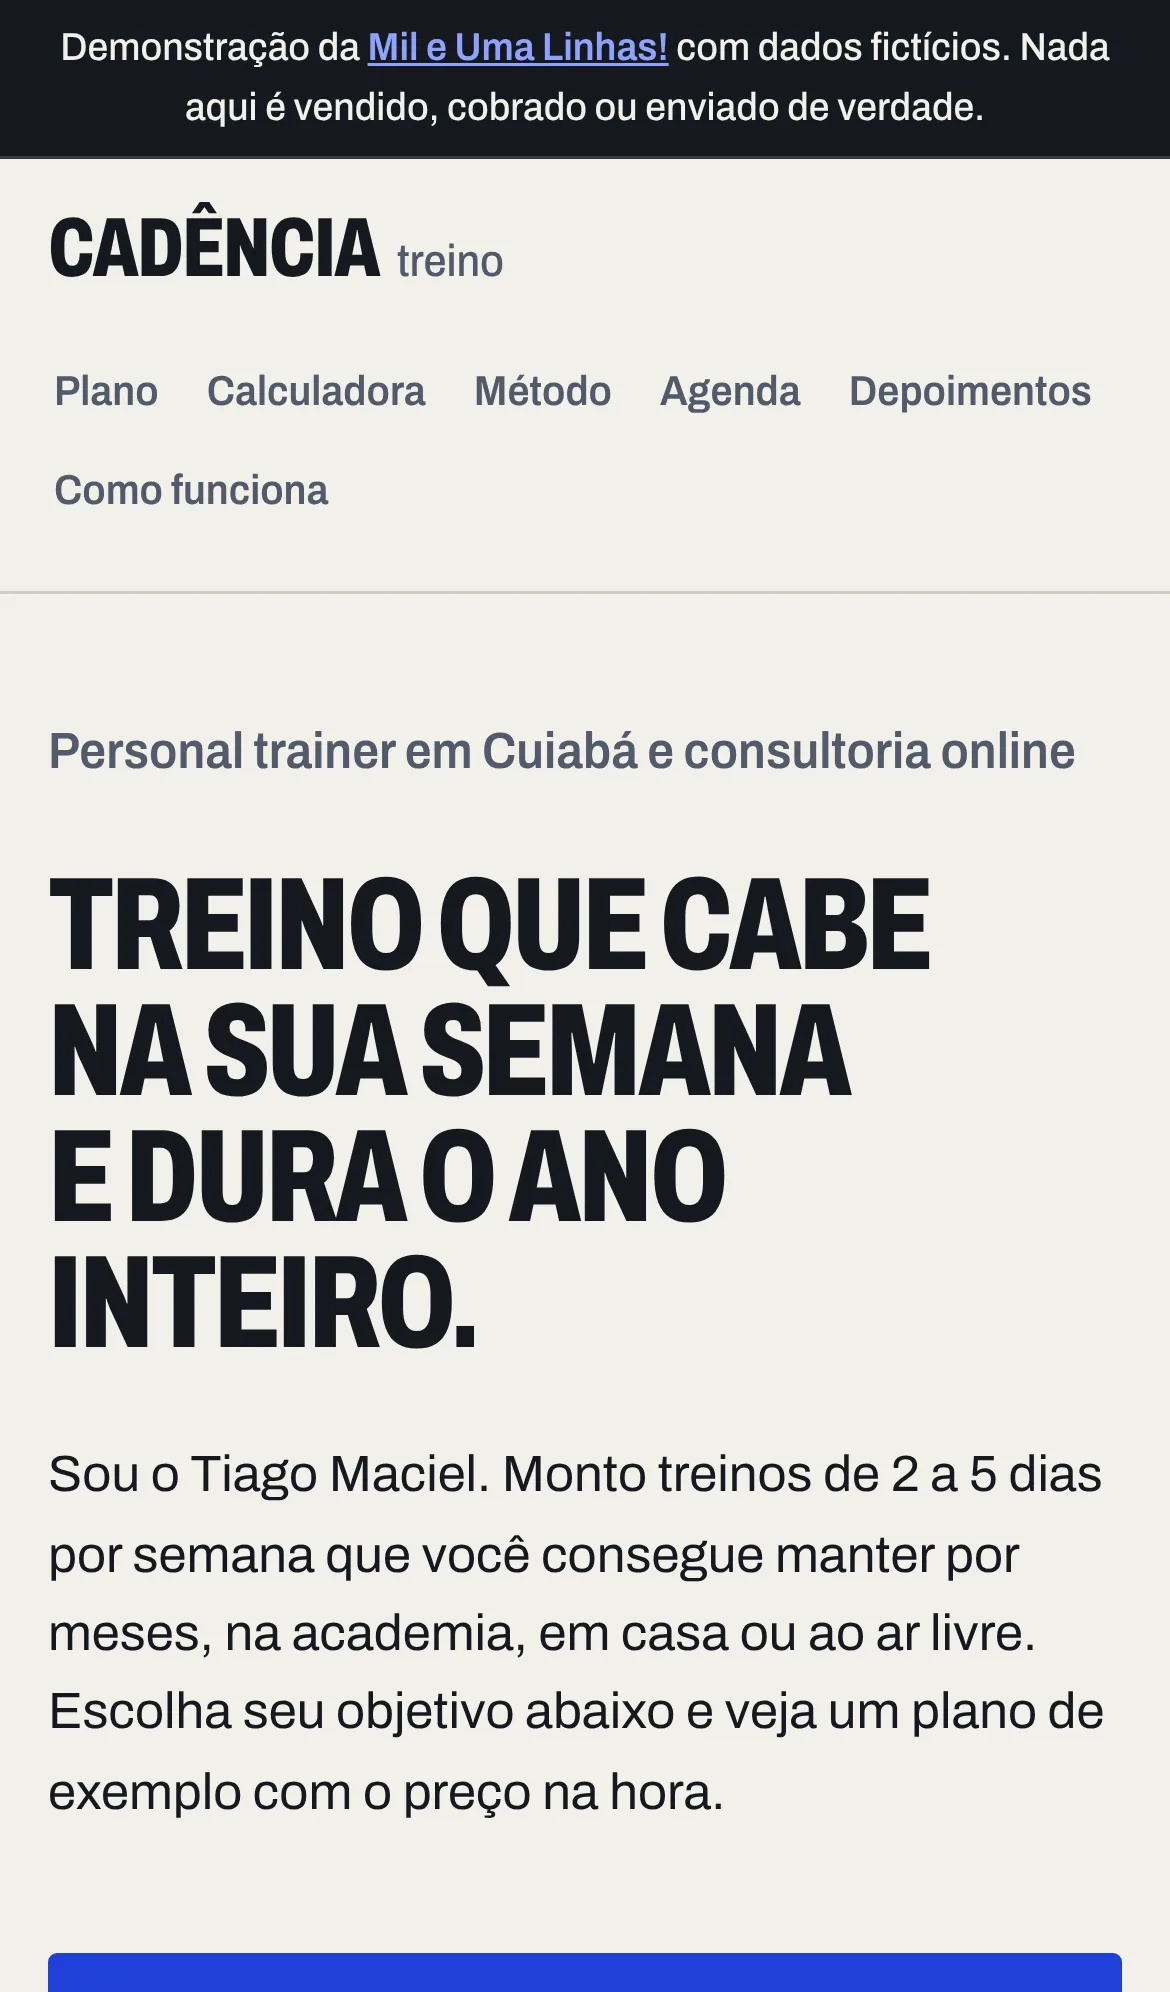
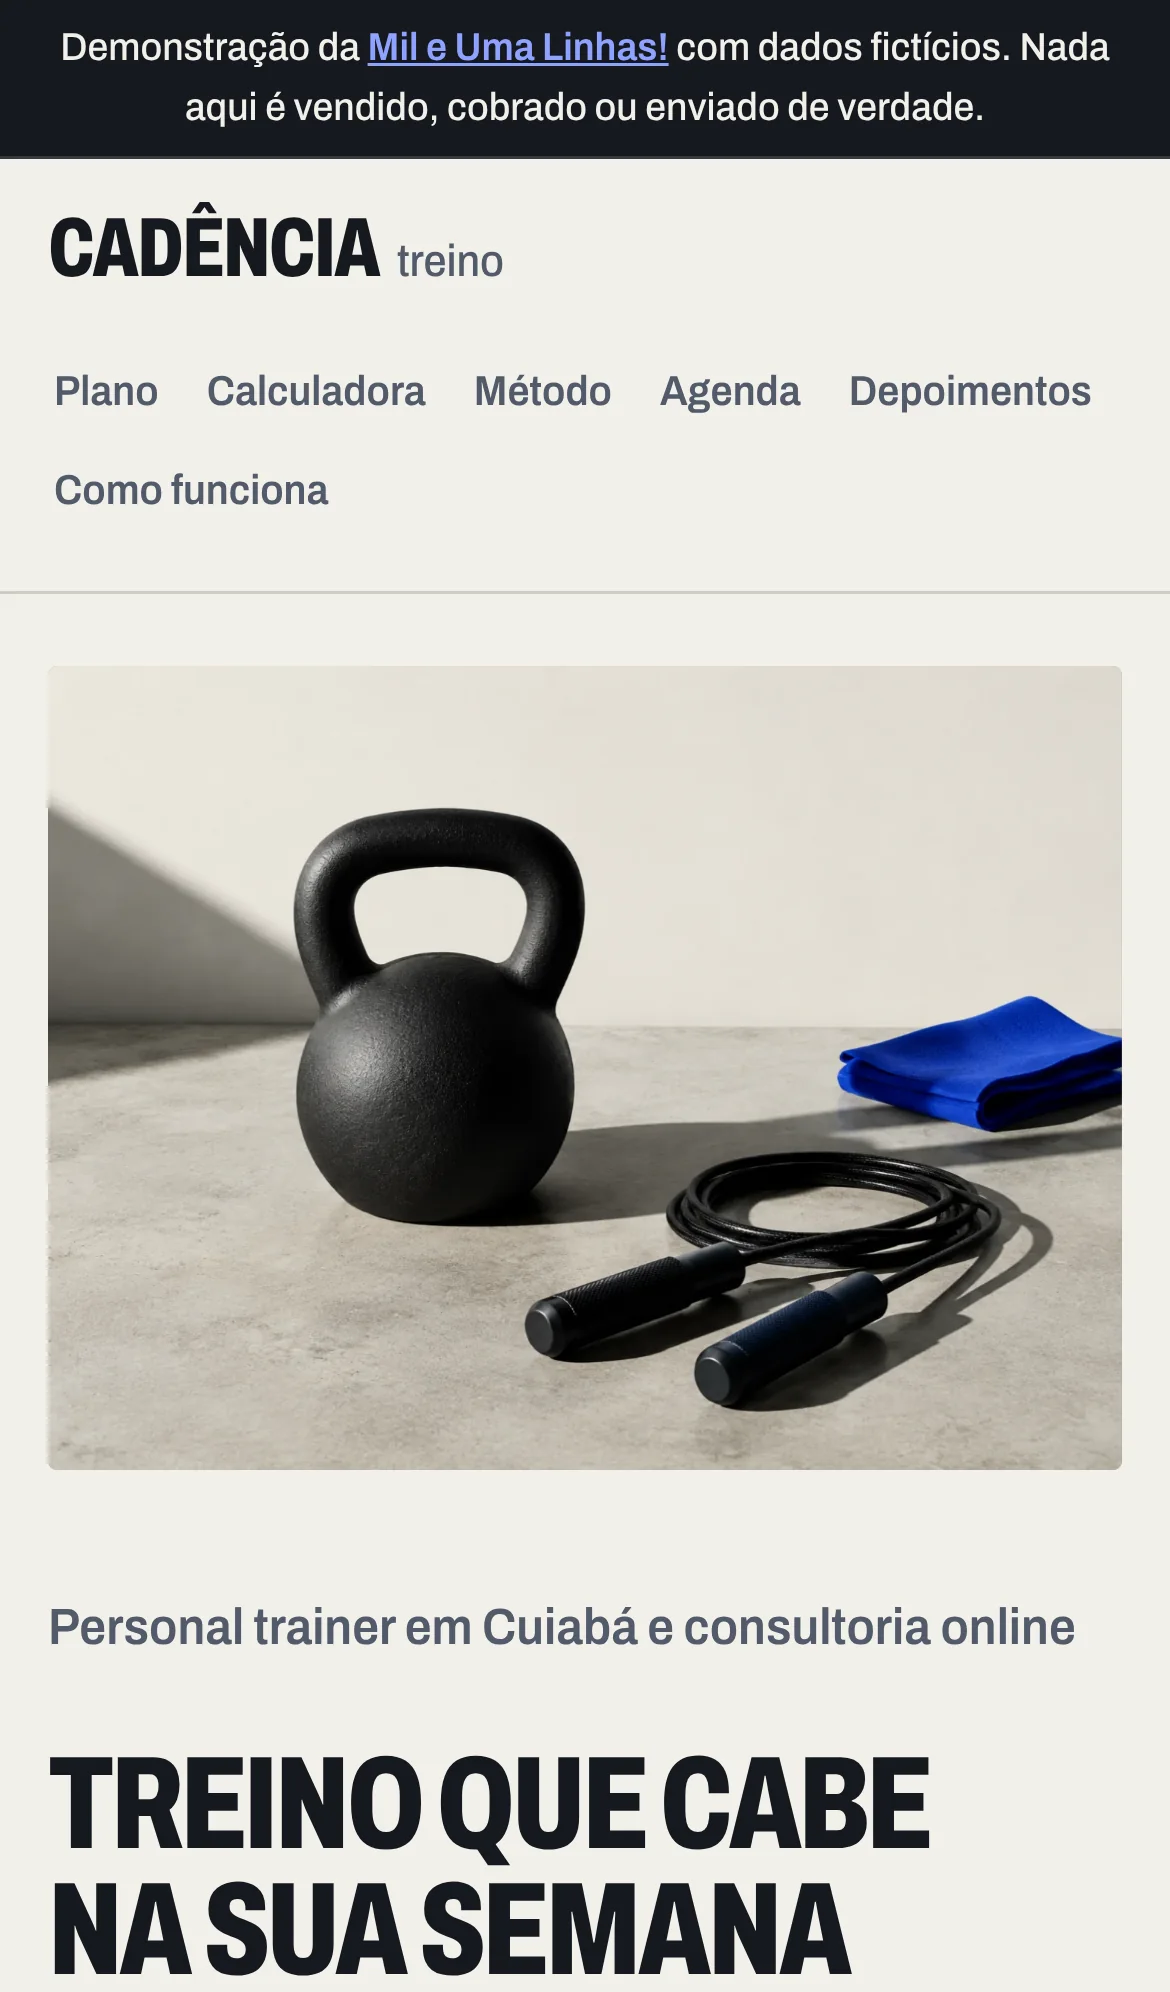
Troca o hero desenhado por foto gerada por IA
Substitui o gráfico de sete barras em SVG do hero por uma foto de uma
kettlebell, uma corda de pular e uma toalha azul-cobalto sobre concreto
(img/hero.webp, 1440x1080, gerada por IA no Canva e ilustrativa).

- index.html: img.hero-foto com width/height, alt descritivo e
  fetchpriority=high dentro da figure 4:3; removidos o SVG e a legenda
  da semana; CSP mantida.
- css/estilo.css: figure com aspect-ratio 4/3, object-fit cover, cantos
  de 3 px e cor média da foto como fundo enquanto carrega; no celular a
  foto abre a página e o texto vem logo abaixo; removidos os estilos e a
  animação das barras do hero; a abertura segue com o título subindo
  linha por linha e a foto ganha um fade (desligado com reduced-motion).
- tests/site.cjs: confere que a foto carregou, tem alt, 4:3, cabe na
  tela e que nenhum texto do hero fica por cima dela; a porta passa a
  aceitar a variável PORTA.
- docs/identidade.md, docs/vistoria.md e README.md: descrevem a foto, o
  aviso de que é gerada por IA e o prompt resumido.
- docs/capa-desktop.webp e docs/capa-celular.webp refeitas.

Claude-Session: https://claude.ai/code/session_015DVsuVad392kn1wvAjF541

diff --git a/css/estilo.css b/css/estilo.css
@@ -133,34 +133,23 @@ h3 { font-weight: 700; font-stretch: 85%; font-size: 1.375rem; line-height: 1.2;
 .titulo-grande span { display: block; }
 .acoes { display: flex; flex-wrap: wrap; gap: var(--e2); }
 
-.abertura-figura { max-width: 460px; justify-self: end; width: 100%; }
-.semana-svg { width: 100%; height: auto; }
-.barra { fill: var(--cobalto); transform-box: fill-box; transform-origin: bottom; }
-.barra-baixa { fill: var(--linha); }
-.semana-base { stroke: var(--ferro); stroke-width: 2; }
-.semana-rotulos text {
-  font-family: var(--fonte); font-weight: 700; font-stretch: 80%;
-  font-size: 18px; fill: var(--aco); text-anchor: middle;
+.abertura-figura {
+  max-width: 520px; justify-self: end; width: 100%;
+  aspect-ratio: 4 / 3; border-radius: var(--raio); overflow: hidden;
+  background: #A3A099; /* média da foto: aparece enquanto ela carrega */
 }
-.legenda { color: var(--aco); font-size: 0.875rem; font-weight: 500; font-stretch: 95%; margin-top: var(--e2); }
+.hero-foto { display: block; width: 100%; height: 100%; object-fit: cover; }
 
 /* Animação de abertura: um só momento */
 @media (prefers-reduced-motion: no-preference) {
   .linha-anim { animation: subir 0.7s cubic-bezier(.2,.7,.2,1) both; }
   .linha-anim:nth-child(2) { animation-delay: 0.08s; }
   .linha-anim:nth-child(3) { animation-delay: 0.16s; }
-  .barra { animation: crescer 0.7s cubic-bezier(.2,.7,.2,1) both; }
-  .barra:nth-child(1) { animation-delay: 0.10s; }
-  .barra:nth-child(2) { animation-delay: 0.16s; }
-  .barra:nth-child(3) { animation-delay: 0.22s; }
-  .barra:nth-child(4) { animation-delay: 0.28s; }
-  .barra:nth-child(5) { animation-delay: 0.34s; }
-  .barra:nth-child(6) { animation-delay: 0.40s; }
-  .barra:nth-child(7) { animation-delay: 0.46s; }
+  .hero-foto { animation: foto-entra 0.9s ease-out both; }
   .opcao span, .botao, .menu a, .horario, .mini-dia { transition: background-color .15s, color .15s, border-color .15s; }
 }
 @keyframes subir { from { opacity: 0; transform: translateY(0.4em); } to { opacity: 1; transform: none; } }
-@keyframes crescer { from { transform: scaleY(0); } to { transform: scaleY(1); } }
+@keyframes foto-entra { from { opacity: 0; } to { opacity: 1; } }
 
 /* Seções */
 .secao { padding-block: var(--e6); border-top: 1px solid var(--linha); scroll-margin-top: 48px; }
@@ -366,7 +355,7 @@ code { font-family: ui-monospace, "SF Mono", Menlo, Consolas, monospace; font-si
 /* Celular e telas estreitas */
 @media (max-width: 900px) {
   .abertura-grade { grid-template-columns: 1fr; }
-  .abertura-figura { justify-self: start; max-width: 360px; }
+  .abertura-figura { justify-self: start; max-width: 560px; order: -1; } /* no celular a foto abre a página, o texto vem logo abaixo */
   .duas-colunas { grid-template-columns: 1fr; gap: var(--e4); }
   .etapas { grid-template-columns: 1fr; }
   .depoimento { grid-template-columns: 1fr; gap: var(--e1); }
@@ -382,7 +371,7 @@ code { font-family: ui-monospace, "SF Mono", Menlo, Consolas, monospace; font-si
 }
 @media (max-width: 600px) {
   :root { --calha: 16px; }
-  .abertura { padding-block: var(--e4); }
+  .abertura { padding-block: var(--e3) var(--e4); }
   .topo-conteudo { flex-direction: column; align-items: flex-start; }
   .menu { gap: 2px 12px; }
   .menu a { font-size: 0.875rem; }

diff --git a/index.html b/index.html
@@ -56,30 +56,7 @@
         </div>
       </div>
       <figure class="abertura-figura">
-        <svg class="semana-svg" viewBox="0 0 420 300" role="img" aria-labelledby="semana-titulo semana-desc">
-          <title id="semana-titulo">Ritmo de uma semana de treino</title>
-          <desc id="semana-desc">Sete barras, uma por dia da semana. Segunda, quarta e sexta são altas, representando dias de treino; os outros dias são baixos, representando descanso.</desc>
-          <g class="barras">
-            <rect class="barra" x="10"  y="60"  width="44" height="200" rx="2" data-h="200"></rect>
-            <rect class="barra barra-baixa" x="68"  y="220" width="44" height="40" rx="2" data-h="40"></rect>
-            <rect class="barra" x="126" y="30"  width="44" height="230" rx="2" data-h="230"></rect>
-            <rect class="barra barra-baixa" x="184" y="230" width="44" height="30" rx="2" data-h="30"></rect>
-            <rect class="barra" x="242" y="90"  width="44" height="170" rx="2" data-h="170"></rect>
-            <rect class="barra barra-baixa" x="300" y="240" width="44" height="20" rx="2" data-h="20"></rect>
-            <rect class="barra barra-baixa" x="358" y="246" width="44" height="14" rx="2" data-h="14"></rect>
-          </g>
-          <line class="semana-base" x1="10" y1="261" x2="402" y2="261"></line>
-          <g class="semana-rotulos" aria-hidden="true">
-            <text x="32" y="290">S</text>
-            <text x="90" y="290">T</text>
-            <text x="148" y="290">Q</text>
-            <text x="206" y="290">Q</text>
-            <text x="264" y="290">S</text>
-            <text x="322" y="290">S</text>
-            <text x="380" y="290">D</text>
-          </g>
-        </svg>
-        <figcaption class="legenda">Uma semana de três treinos. O resto é descanso, e descanso também é parte do plano.</figcaption>
+        <img class="hero-foto" src="img/hero.webp" width="1440" height="1080" alt="Uma kettlebell preta de ferro sobre um piso de concreto cinza, ao lado de uma corda de pular preta com cabos escuros e uma toalha dobrada em azul-cobalto, diante de uma parede clara cortada por uma sombra diagonal." fetchpriority="high">
       </figure>
     </div>
   </section>

diff --git a/docs/identidade.md b/docs/identidade.md
@@ -8,7 +8,7 @@ Estudo curto feito antes do código. Tudo aqui é fictício: a empresa, o profis
 
 Frase de posicionamento: **"Treino que cabe na sua semana e dura o ano inteiro."**
 
-A ideia central é constância, não intensidade. O personal fictício (Tiago Maciel) vende ritmo: poucos dias por semana, bem feitos, repetidos por meses. Por isso a marca se chama Cadência e a imagem forte é a semana vista como um ritmo de barras.
+A ideia central é constância, não intensidade. O personal fictício (Tiago Maciel) vende ritmo: poucos dias por semana, bem feitos, repetidos por meses. Por isso a marca se chama Cadência e a imagem forte é uma foto limpa de equipamento de treino; o ritmo da semana aparece em barras no resultado do plano.
 
 ## Paleta
 
@@ -19,7 +19,7 @@ A ideia central é constância, não intensidade. O personal fictício (Tiago Ma
 | Ferro | `#15181F` | Texto principal no claro e fundo da faixa escura (método, agenda). |
 | Aço | `#525A6B` | Texto secundário e legendas. Contraste 6,1:1 sobre Giz. |
 | Linha | `#CFCCC2` | Bordas de 1px e divisórias. Nunca usada como texto. |
-| Cobalto | `#2140D9` | O único destaque. Barras do hero, botão principal, dia selecionado. Texto branco sobre ele tem 7,5:1. |
+| Cobalto | `#2140D9` | O único destaque. Botão principal, dia selecionado e a semana em barras do resultado do plano; a toalha da foto do hero ecoa a cor. Texto branco sobre ele tem 7,5:1. |
 | Cobalto claro | `#8FA2FF` | Versão do destaque para texto pequeno sobre Ferro (7,4:1), porque o Cobalto puro some no fundo escuro. |
 
 Regra de uso: o Cobalto aparece em um lugar por tela, no máximo dois quando um deles é o botão principal. Nada de gradiente. Nenhum cartão com sombra: separação por linhas de 1px e por alternância Giz / Ferro.
@@ -59,12 +59,22 @@ Regra de peso: só 400, 600, 700 e 800. Nada de itálico.
 
 ## Imagem forte
 
-No hero, à direita do título, um gráfico em SVG desenhado à mão: sete barras verticais em Cobalto, uma por dia da semana, com alturas que formam o ritmo de uma semana de treino (dias de treino altos, dias de descanso baixos). Abaixo de cada barra, a inicial do dia. É o símbolo da marca e reaparece em miniatura no resultado do montador de plano, agora respondendo à escolha do visitante.
+O hero é uma **foto gerada por IA (Canva)**, ilustrativa: uma kettlebell preta de ferro sobre um piso de concreto cinza, uma corda de pular preta e uma toalha dobrada em azul-cobalto, diante de uma parede clara cortada por uma sombra diagonal. A luz dura e a sombra geométrica combinam com a Archivo condensada do título, e o azul da toalha é o único ponto de cor, o mesmo Cobalto da marca. Não há pessoas.
+
+O contêiner tem proporção fixa de 4:3, cantos de 3 px (o mesmo raio dos botões) e sem sombra nem borda. Enquanto a foto carrega, ele mostra a cor média dela. O gráfico de sete barras que ficava no hero foi retirado; a miniatura da semana continua no resultado do montador de plano, respondendo à escolha do visitante.
 
 Sem fotos de banco de imagem, sem fotos de pessoas, sem ícones genéricos.
 
+### Foto do hero
+
+- **Arquivo**: `img/hero.webp`, 1440 x 1080 px, proporção 4:3.
+- **Origem**: gerada por IA no Canva. O README e este estudo avisam que é ilustrativa.
+- **Prompt resumido**: "Natureza-morta de treino em estúdio: uma kettlebell preta fosca de ferro fundido, uma corda de pular preta com cabos escuros e uma toalha dobrada em azul-cobalto vivo, sobre piso de concreto cinza. Parede em tom de giz ao fundo, luz dura de janela com uma sombra diagonal nítida. Estilo editorial de site premium, sem texto, sem pessoas, proporção 4:3."
+- **Texto alternativo**: descreve a kettlebell, a corda de pular, a toalha azul e a parede com a sombra.
+- **Texto do hero**: fica ao lado da foto no computador e abaixo dela no celular, nunca por cima. O contraste do texto é o da página (Ferro sobre Giz) e não depende da foto.
+
 ## Movimento
 
-Um só momento orquestrado: ao abrir a página, as barras do hero sobem em sequência (700ms, atraso de 60ms entre elas) e o título entra de baixo para cima. Depois disso, só respostas a ações do visitante: o plano aparece, o horário selecionado muda de cor, o resultado da calculadora é atualizado.
+Um só momento orquestrado: ao abrir a página, o título entra de baixo para cima, linha por linha (700ms), e a foto do hero aparece com um fade de 900ms. Depois disso, só respostas a ações do visitante: o plano aparece, o horário selecionado muda de cor, o resultado da calculadora é atualizado.
 
-Com `prefers-reduced-motion: reduce`, nada se move: as barras já nascem na altura final e as transições são desligadas.
+Com `prefers-reduced-motion: reduce`, nada se move: o título e a foto já aparecem prontos e as transições são desligadas.

diff --git a/README.md b/README.md
@@ -35,7 +35,7 @@ O estudo completo está em [`docs/identidade.md`](docs/identidade.md).
 - **Nome e ideia**: Cadência Treino. A marca vende constância, não intensidade: "Treino que cabe na sua semana e dura o ano inteiro".
 - **Paleta**: Giz `#F2F0EA` (fundo), Ferro `#15181F` (texto e faixas escuras), Aço `#525A6B` (texto secundário), Linha `#CFCCC2` (bordas) e um único destaque, Cobalto `#2140D9`, que aparece em um lugar por tela. Fugi de propósito do preto com laranja e do neon de academia; o resultado lembra uma prancheta de treino.
 - **Fonte**: só uma, a Archivo variável (licença OFL), servida do próprio site em `fonts/`. Nos títulos ela fica condensada e pesada, como número de camisa; no texto fica normal. Nenhuma fonte vem de fora.
-- **Imagem forte**: um gráfico em SVG com as sete barras da semana, que sobe em sequência quando a página abre. Sem fotos de banco de imagem e sem fotos de pessoas. Ele volta em miniatura no resultado do plano, respondendo à escolha de dias.
+- **Imagem forte**: uma foto de uma kettlebell, uma corda de pular e uma toalha azul-cobalto sobre concreto (`img/hero.webp`). **A foto foi gerada por IA no Canva e é só ilustrativa**: o espaço e os objetos não existem. Sem fotos de banco de imagem e sem fotos de pessoas. A semana em barras continua em miniatura no resultado do plano, respondendo à escolha de dias.
 - **Movimento**: só a abertura e as respostas a cliques. Com "reduzir movimento" ativado no aparelho, nada se move.
 
 ## Como funciona por dentro
@@ -52,7 +52,7 @@ O site é um arquivo HTML, um CSS e um JavaScript, lidos direto pelo navegador. 
 - Content Security Policy por meta: `default-src 'self'; script-src 'self'; style-src 'self'; img-src 'self' data:; font-src 'self'; connect-src 'none'; object-src 'none'; base-uri 'none'; form-action 'none'`. Nenhum script inline e nenhum atributo `style`.
 - Acessibilidade: `lang="pt-BR"`, contraste AA ou melhor em todos os pares de cor, foco visível, formulários com `label`, `fieldset` e `legend`, resultados em regiões `aria-live`, agenda em tabela com cabeçalhos e botões reais, link "pular para o conteúdo".
 - Celular primeiro: grade de uma coluna até 900px, calha de 16px abaixo de 600px, agenda com seletor de dia abaixo de 700px, alvos de toque de pelo menos 44px.
-- Arquivos: `index.html`, `404.html` (caminhos absolutos em `/personal/`), `robots.txt`, `sitemap.xml`, `favicon.svg`, `css/estilo.css`, `js/app.js`, `fonts/`, `docs/` (identidade, vistoria e capturas), `tests/site.cjs`.
+- Arquivos: `index.html`, `404.html` (caminhos absolutos em `/personal/`), `robots.txt`, `sitemap.xml`, `favicon.svg`, `img/hero.webp` (foto da abertura), `css/estilo.css`, `js/app.js`, `fonts/`, `docs/` (identidade, vistoria e capturas), `tests/site.cjs`.
 
 ## Como rodar no seu computador
 

diff --git a/docs/vistoria.md b/docs/vistoria.md
@@ -15,7 +15,7 @@ default-src 'self'; script-src 'self'; style-src 'self'; img-src 'self' data:;
 font-src 'self'; connect-src 'none'; object-src 'none'; base-uri 'none'; form-action 'none'
 ```
 
-- Nenhum script inline e nenhum atributo `style`. Toda mudança visual dinâmica usa classes CSS; alturas de barras no SVG são atributos, não estilo.
+- Nenhum script inline e nenhum atributo `style`. Toda mudança visual dinâmica usa classes CSS.
 - `connect-src 'none'` bloqueia `fetch`, `XMLHttpRequest` e WebSocket, mesmo que um script fosse injetado.
 - `form-action 'none'` impede qualquer envio de formulário; os formulários têm `novalidate` e `preventDefault` no `submit`.
 - No `404.html`, `script-src 'none'`, porque a página não usa JavaScript.
